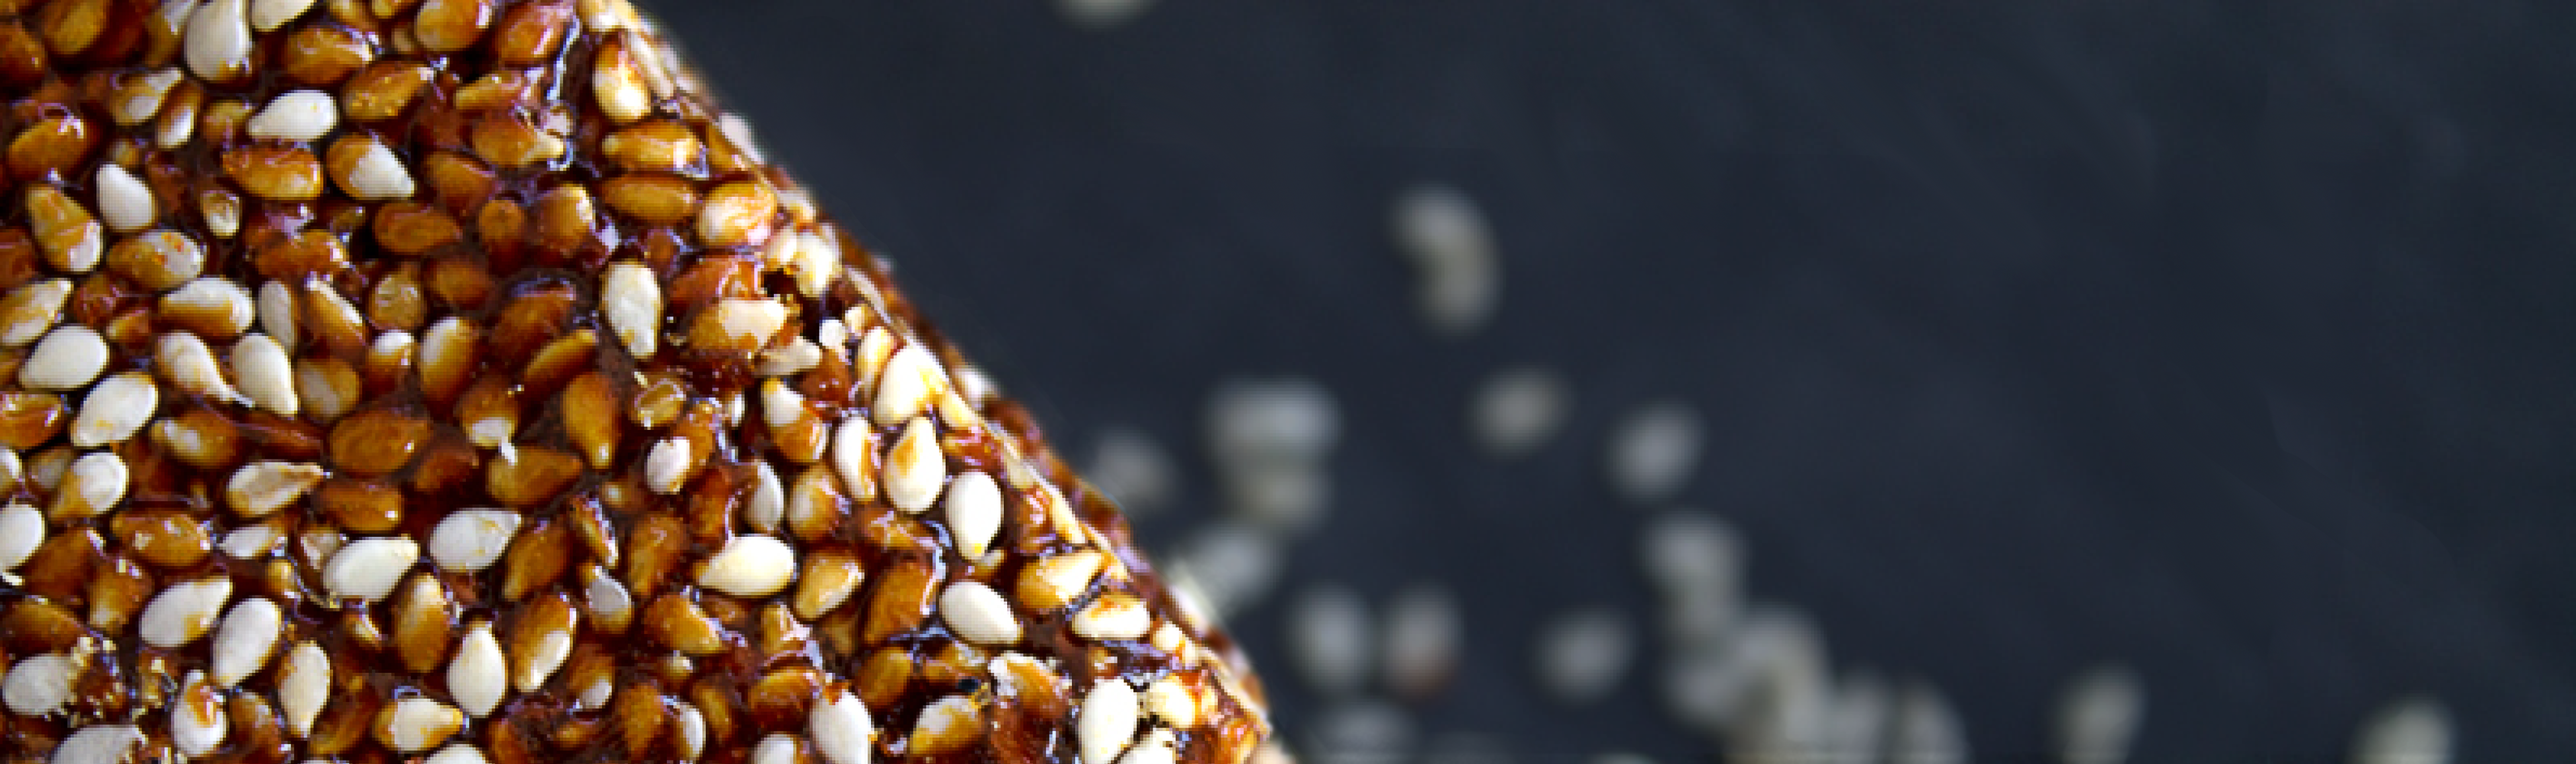
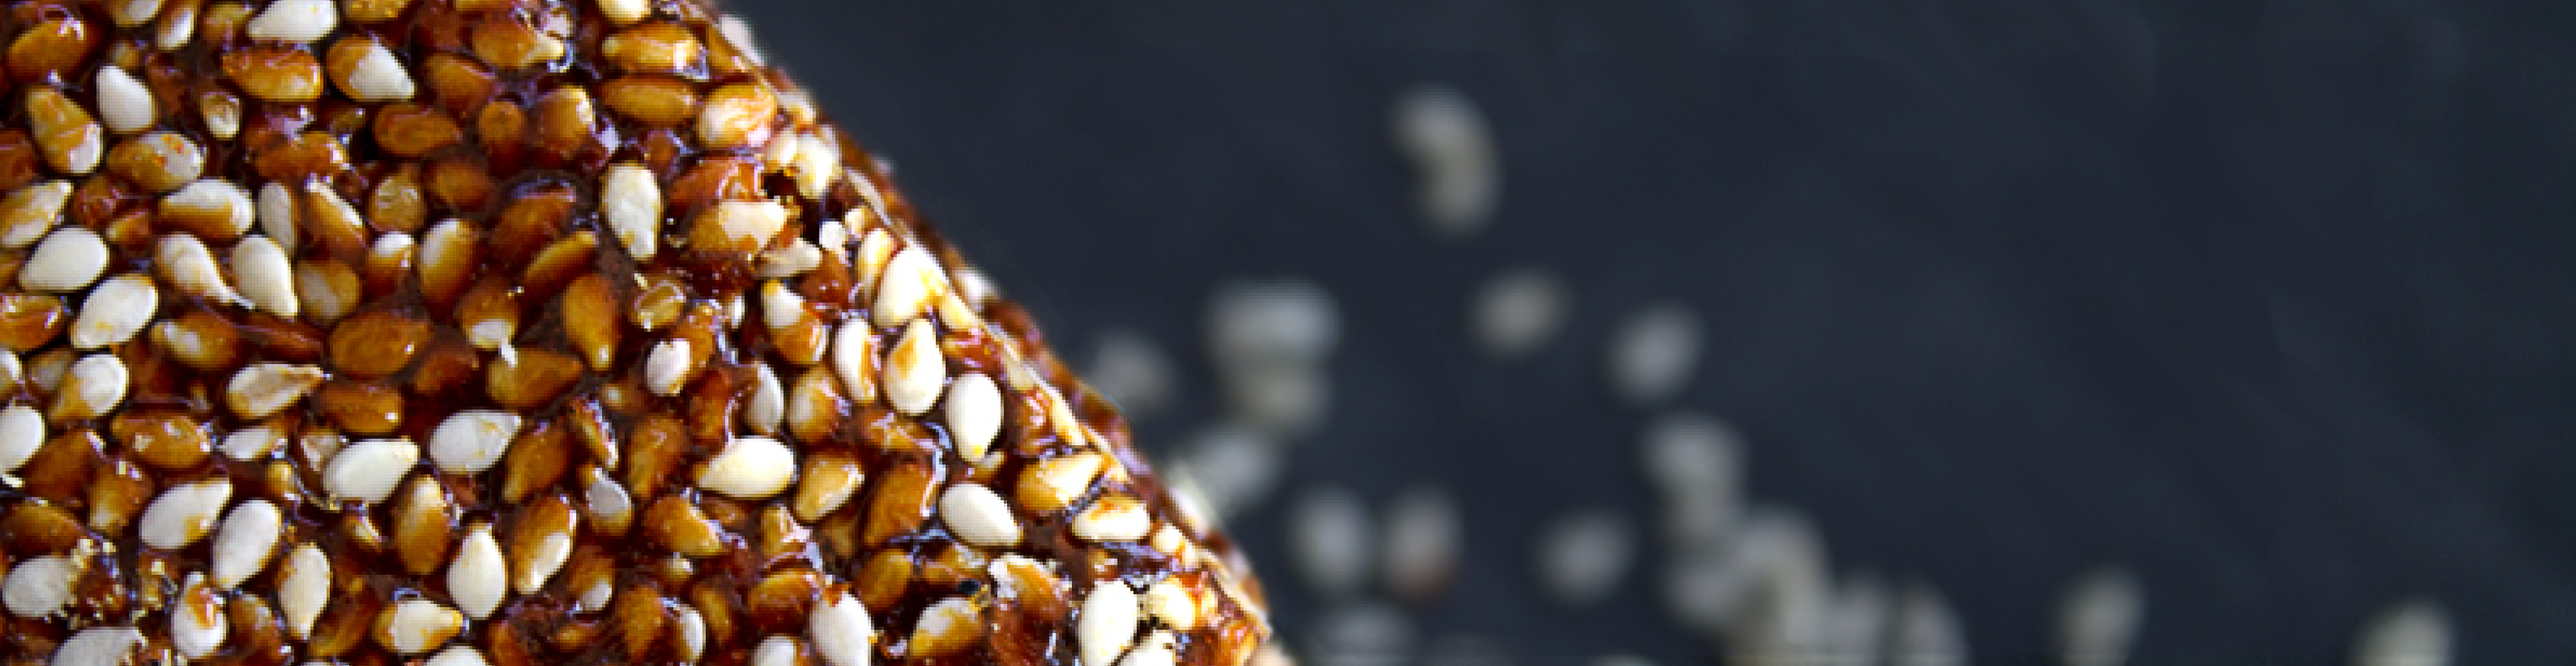
worked on fonts, sleeker hero image, tried to fix lower div formatting

diff --git a/messedup/2_index.html b/messedup/2_index.html
@@ -4,7 +4,6 @@
 <head>
 	<title>Peg Nut Brittle</title>
 	<link rel="stylesheet" type="text/css" href="css/main.css">
-	<link href='http://fonts.googleapis.com/css?family=Lobster' rel='stylesheet' type='text/css'>
 	<link href='http://fonts.googleapis.com/css?family=Stint+Ultra+Expanded' rel='stylesheet' type='text/css'>
 </head>
 

diff --git a/messedup/testing.html b/messedup/testing.html
@@ -1,0 +1,24 @@
+<!DOCTYPE html>
+<html>
+
+<head>
+
+<style>  
+	  body {
+      background: images/hero_sharp_1.png;
+      background-size: cover;
+  }
+</style>
+</head>
+
+<header>
+	<img src="images/hero_sharp_1.png">
+</header>
+
+<body>
+<p>hello!</p>
+</body>
+
+
+
+</html>

diff --git a/messedup/2_main.css b/messedup/2_main.css
@@ -43,7 +43,7 @@ ul {
     top: 50px;
     left: 660px; 
     width: 100%;
-    font-family: 'Lobster', cursive;
+    font-family: Helvetica;
     font-size: 100px;
     color: #FFFFFF;
     font-weight: normal;
